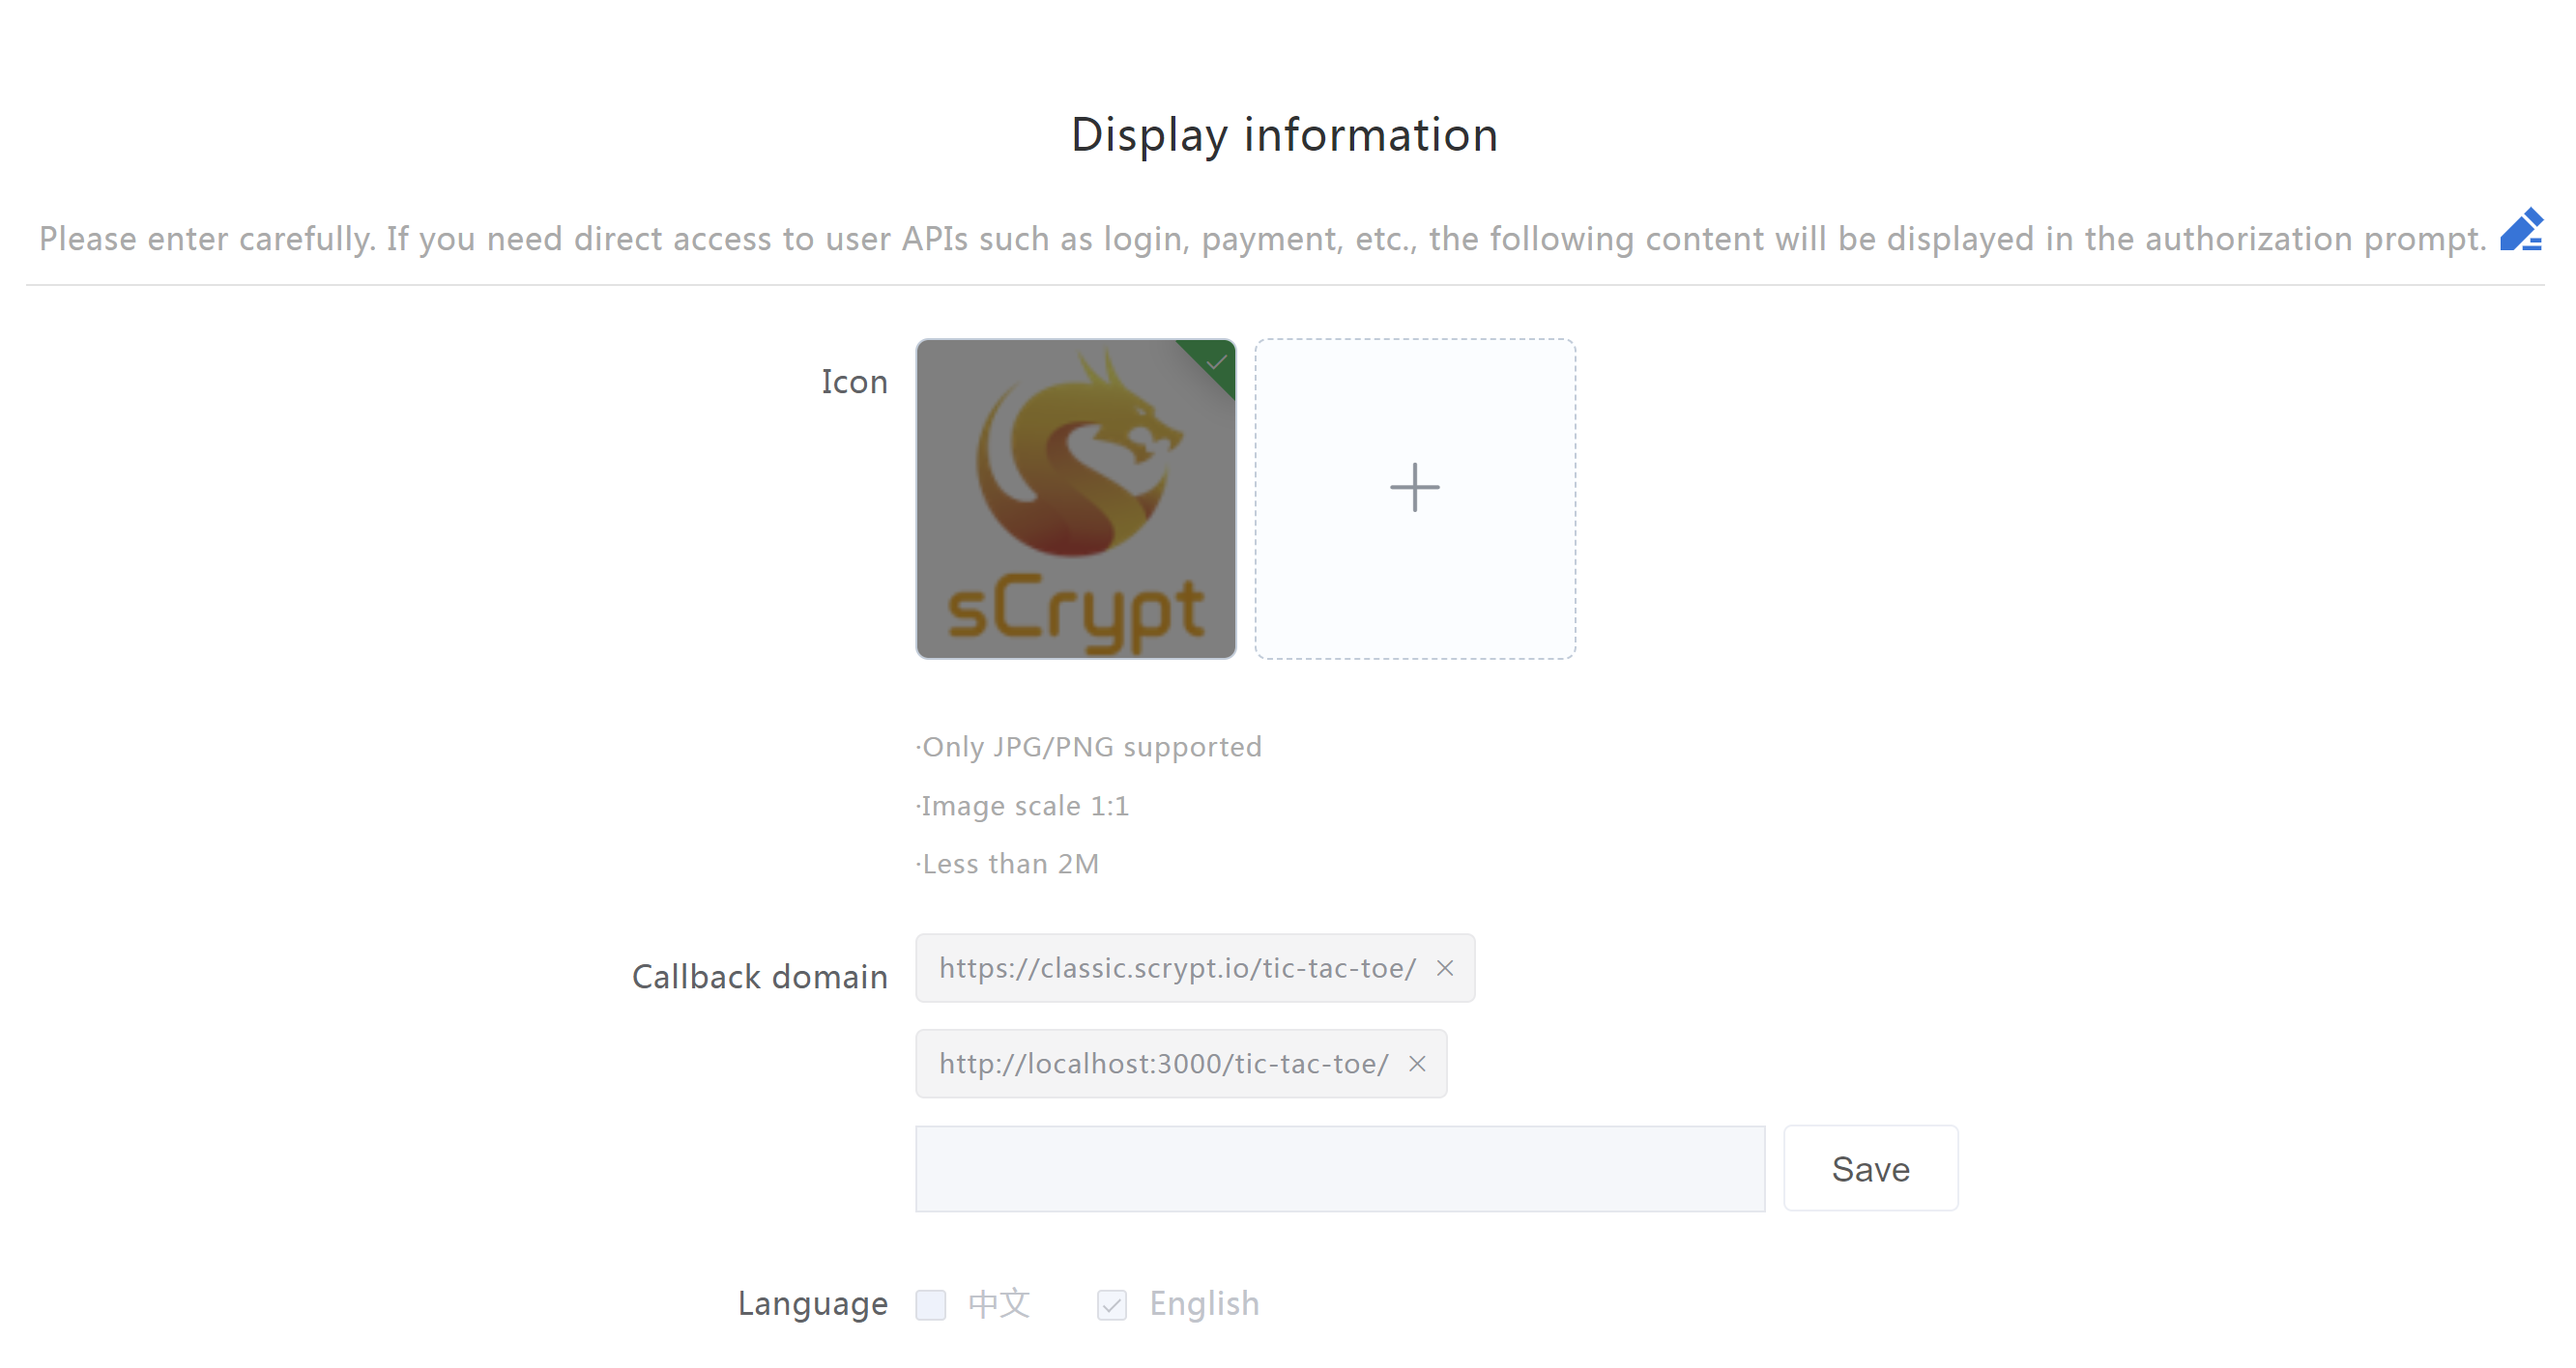
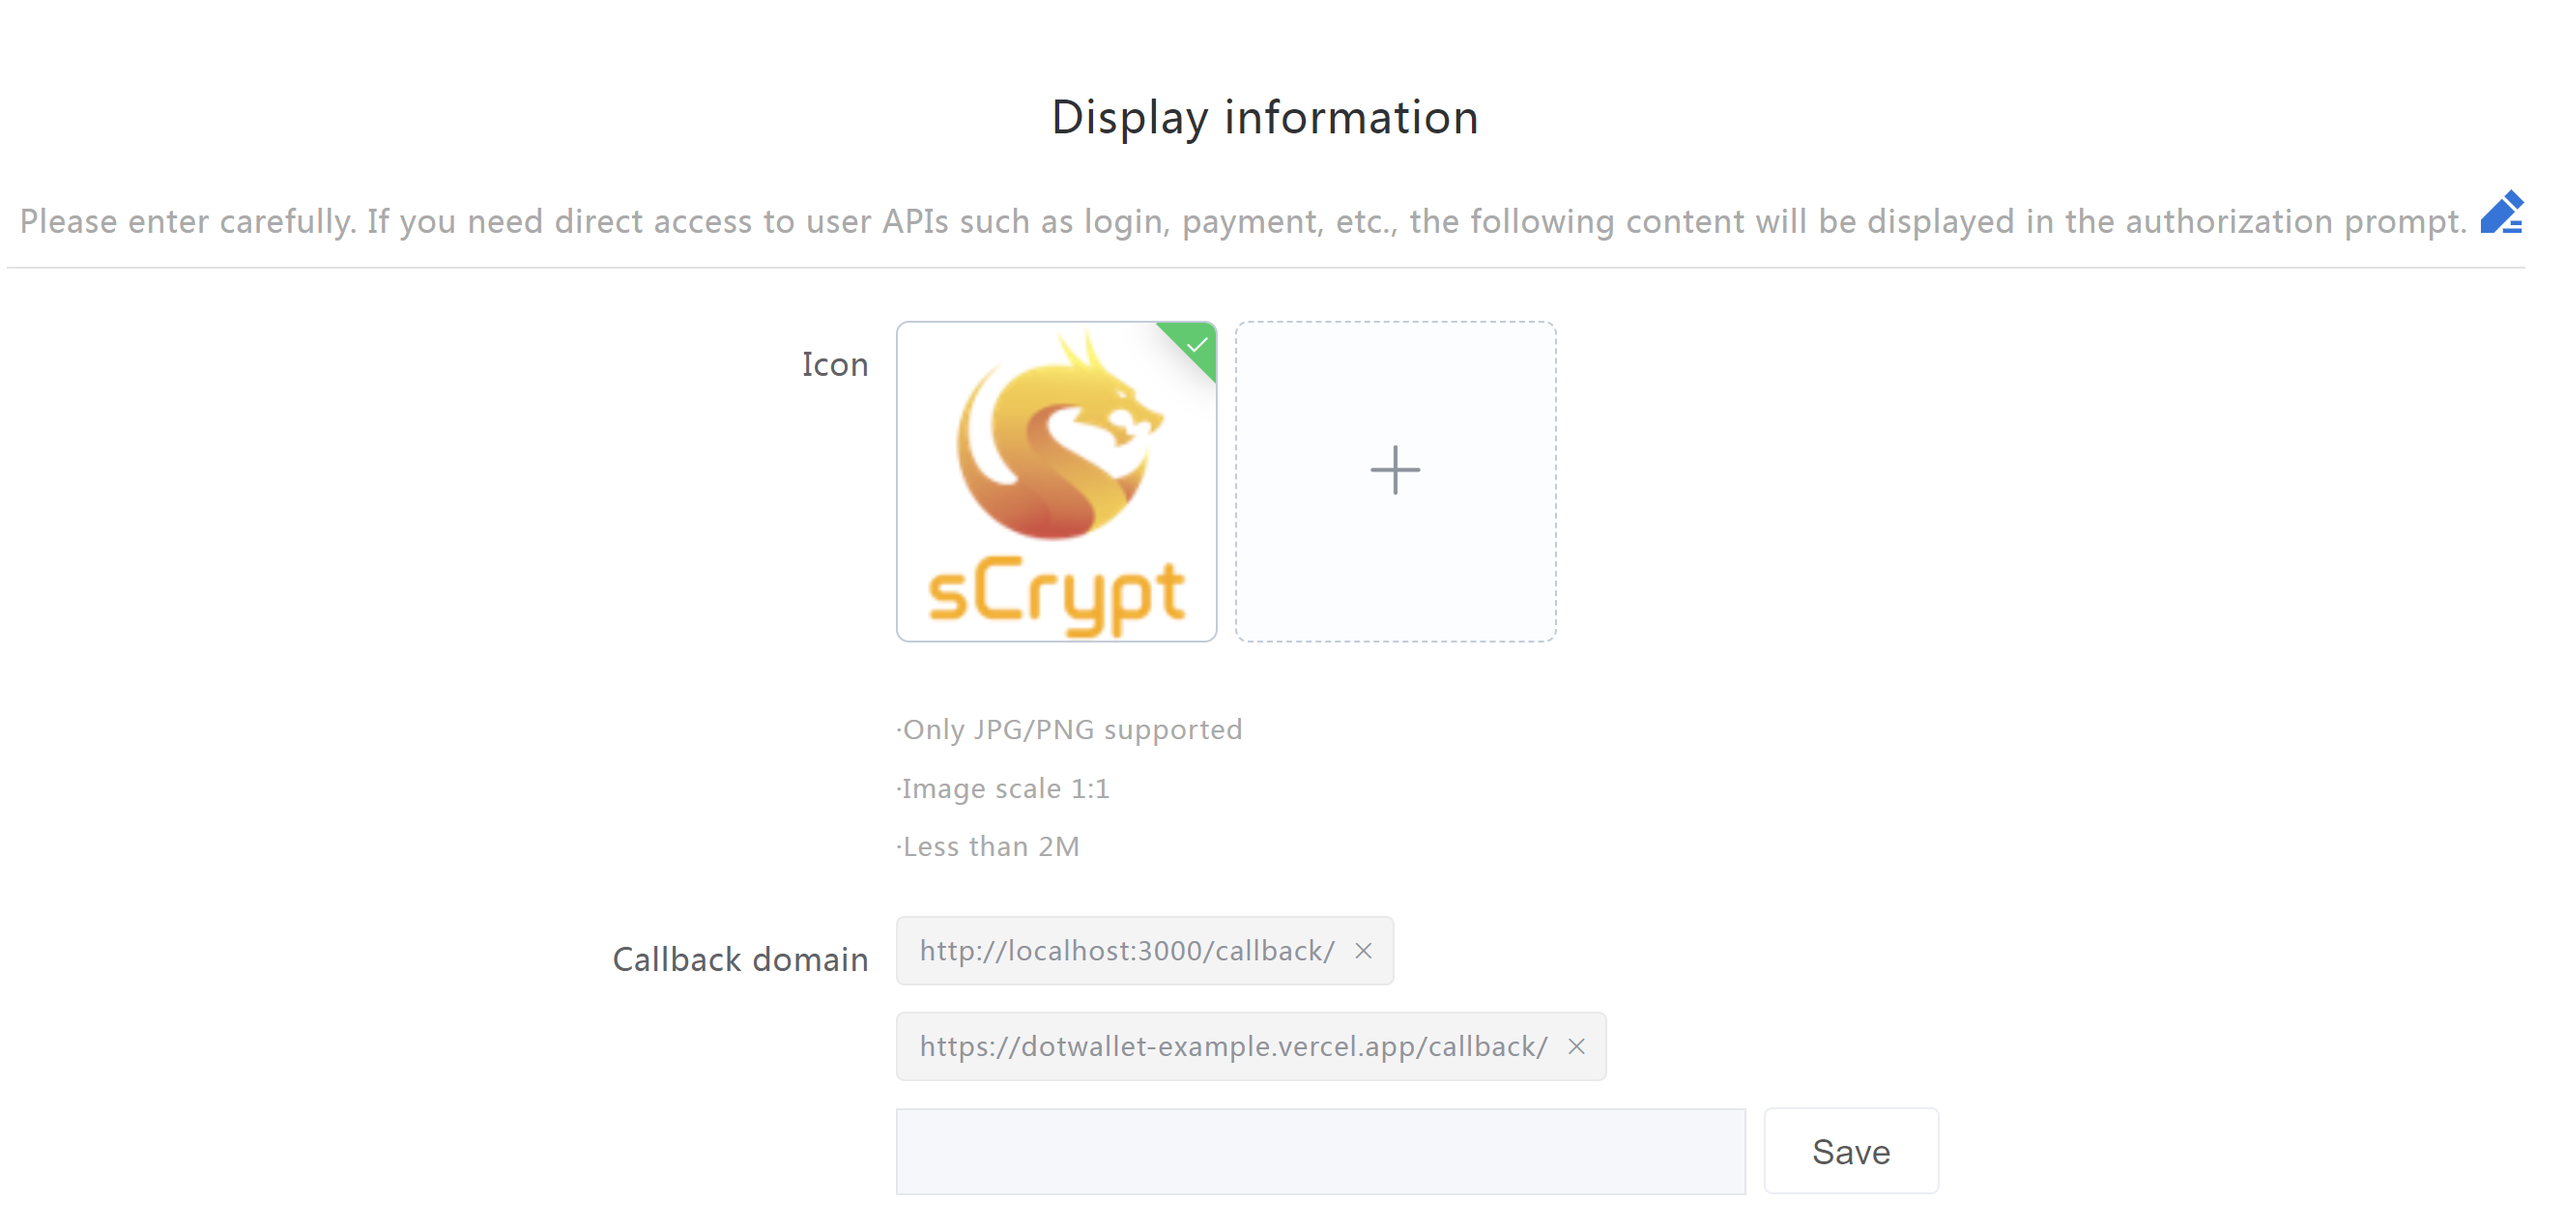
update dotwallet docs

diff --git a/docs/how-to-integrate-a-frontend/how-to-integrate-dotwallet.md b/docs/how-to-integrate-a-frontend/how-to-integrate-dotwallet.md
@@ -10,33 +10,9 @@
 DotWallet user authorization follows the standard authorization code flow of OAuth2. See [RFC6749](https://tools.ietf.org/html/rfc6749#section-4.1) for details. 
 
 
-```
-+----------+
-| Resource |
-|   Owner  |
-|          |
-+----------+
-     ^
-     |
-    (B)
-+----|-----+          Client Identifier      +---------------+
-|         -+----(A)-- & Redirection URI ---->|               |
-|  User-   |                                 | Authorization |
-|  Agent  -+----(B)-- User authenticates --->|     Server    |
-|          |                                 |               |
-|         -+----(C)-- Authorization Code ---<|               |
-+-|----|---+                                 +---------------+
-  |    |                                         ^      v
- (A)  (C)                                        |      |
-  |    |                                         |      |
-  ^    v                                         |      |
-+---------+                                      |      |
-|         |>---(D)-- Authorization Code ---------'      |
-|  Client |          & Redirection URI                  |
-|         |                                             |
-|         |<---(E)----- Access Token -------------------'
-+---------+       (w/ Optional Refresh Token)
-```
+![](../../static/img/oauth2.png)
+
+[credit to Vihanga Liyanage](https://medium.com/@vihanga_liyanage/iam-for-dummies-oauth-2-grant-types-397197a26024)
 
 User authorization is based on Oauth2's Authorization Code grant. Authorization Code grant flow:
 
@@ -65,7 +41,7 @@ User authorization is based on Oauth2's Authorization Code grant. Authorization 
 4. Exchange code for access_token. The access tokens are credentials used to access protected resources, which are issued by the authorization server.
    
 :::warning
-To avoid security issues, any request for using or obtaining `access_token` must be made from the backend server. Do not disclose your `client_id` and `client_secret` on the client side.
+To avoid security issues, any request for using or obtaining `access_token` must be made from the backend server. Do not disclose your `access_token` and `client_secret`<sup>1</sup> on the client side.
 :::
 
 
@@ -82,8 +58,8 @@ To avoid security issues, any request for using or obtaining `access_token` must
 
 3. Next, you need to set [redirection URI](https://www.oauth.com/oauth2-servers/redirect-uris). Redirect URLs are a critical part of the OAuth flow. After a user successfully authorizes an application, the authorization server will redirect the user back to the application. For example, in the figure below, we filled in two redirection URIs.
   
-- [https://classic.scrypt.io/tic-tac-toe/](https://classic.scrypt.io/tic-tac-toe) is the address used for product deployment.
-- [http:/ /localhost:3000/tic-tac-toe/](http://localhost:3000/tic-tac-toe/) is used for development and debugging.
+- [https://dotwallet-example.vercel.app/callback/](https://dotwallet-example.vercel.app/callback/) is the redirection URI used for product deployment.
+- [http://localhost:3000/callback/](http://localhost:3000/callback/) is the redirection URI used for development and debugging.
 
 ![](../../static/img/DotWallet-uris.png)
 
@@ -92,185 +68,129 @@ To avoid security issues, any request for using or obtaining `access_token` must
 *Callback domain* in the form is the redirection URIs in OAuth. 
 :::
 
-## Development Environment 
+## Implementation
 
-sCrypt SDK provides `DotWalletSigner` for quick integration with DotWallet.
 
-You can use `DotWalletDevOption` to create `DotWalletSigner`. Using `DotWalletDevOption` does not require to build a backend service. `DotWalletSigner` will automatically complete the authorization code grant flow for you on the front end.
 
-:::note
-`DotWalletDevOption` is only for development and debugging, otherwise it will leak your `client_secret` <sup>1</sup>. 
-:::
+Here is a code example to create `DotWalletSigner` in [Nextjs](https://nextjs.org/):
+
+
+1. Construct URI. 
 
 ```ts
-/**
-  * Please note that `DotWalletDevOption` is only used to create DotWalletSigner in development environment.
-  * This Option should not be used in a production environment as it will expose your client_secret.
-  */
-export interface DotWalletDevOption {
-     /** `app_id` received in the mail */
-     client_id: string;
-     /** `secret` received in the mail */
-     client_secret: string;
-     /** The url filled in the Callback domain */
-     redirect_uri: string;
-     /** A random string */
-     state: string;
+export default async function Home() {
+  const loginUrl = `https://api.ddpurse.com/authorize?client_id=${process.env.CLIENT_ID}&redirect_uri=${encodeURIComponent(
+      process.env.REDIRECT_URI || ''
+    )}&response_type=code&scope=${encodeURIComponent(
+      "user.info"
+    )}&state=${crypto.randomUUID()}`;
+  
+    return (
+      <main className="flex min-h-screen flex-col items-center justify-between p-24">
+        <div className="m-4 p-4 bg-blue-200 font-bold rounded-lg">
+          <a href={loginUrl}>DotWallet Login</a>
+        </div>
+      </main>
+    );
 }
 ```
 
-Here is a code example to create `DotWalletSigner` in `React`:
+<center>src/app/page.tsx</center>
 
 
-```ts
-const state = localStorage.getItem("state")
-    ? (localStorage.getItem("state") as string)
-    : crypto.randomUUID();
-
-localStorage.setItem("state", state);
-const options = {
-  client_id: "******",
-  client_secret: "******",
-  redirect_uri: `http://localhost:3000/tic-tac-toe/`,
-  state: state,
-};
-const provider = new DefaultProvider();
-
-const signerRef = useRef(new DotWalletSigner(options, provider));
-
-const signer = signerRef.current;
-```
-
-
-Afterwards, you can use it as a signer like any other wallet as [before](./how-to-integrate-a-frontend.md#integrate-wallet). When the user clicks the login wallet button, the `requestAuth` method is called to access the wallet, and user is redirected to DotWallet's authorization page.
-
-
-```ts
-const onAuthenticated = async () => {
-  const pubkey = await signer.getDefaultPubKey();
-
-  setAlicePubkey(toHex(pubkey));
-
-  setBobPubkey(toHex(pubkey));
-
-  const balance = await signer.getBalance();
-
-  setAliceBalance(balance.confirmed + balance.unconfirmed);
-  setBobBalance(balance.confirmed + balance.unconfirmed);
-  setConnected(true);
-};
-
-const walletLogin = async () => {
-  try {
-    const { isAuthenticated, error } = await signer.requestAuth();
-    if (!isAuthenticated) {
-      throw new Error(error);
-    }
-
-    onAuthenticated();
-  } catch (error) {
-    console.error("DotWallet login failed", error);
-  }
-};
-```
+If the user clicks the **DotWallet Login** button, the page will be redirected to the authorization server page.
 
 ![](../../static/img/DotWallet-auth.png)
 
-After the user clicks **Agree to authorize** to log in, the page will be redirected to the `redirect_uri` given by the app. In this example, `redirect_uri` is the current page <sup>2</sup>.
-We can tell whether it is a redirected page by seeing if the current query parameter has the `state` random string filled in when requesting to log in to the wallet. If yes, it will automatically call `getAccesstoken()` to get `accessToken`. After successful authentication, `DotwalletSigner` will automatically save the obtained `accessToken` in `localStorage`. 
+
+2. After the user clicks **Agree to authorize** to log in, the authorization server redirect the user to the redirection URI. The following code receives the `code` through the callback uri. Then exchange the `code` for `access_token` and save it.
+
+```ts
+import { redirect, notFound } from 'next/navigation';
+
+import token from "../token"
+
+export async function GET(request: Request) {
+  const { searchParams } = new URL(request.url);
+  const code = searchParams.get('code');
+
+  if (code) {
+    // exchange the code for access_token
+    const res = await fetch(`https://api.ddpurse.com/v1/oauth2/get_access_token`, {
+      body: JSON.stringify({
+        code,
+        redirect_uri: process.env.REDIRECT_URI,
+        grant_type: "authorization_code",
+        client_secret: process.env.CLIENT_SECRET,
+        client_id: process.env.CLIENT_ID,
+      }),
+      headers: {
+        'Content-Type': 'application/json',
+      },
+      method: 'POST'
+    });
+    const { code: apiCode, data, msg } = await res.json();
+
+    if (apiCode === 0) {
+      const { access_token } = data;
+      // save access_token
+      token.access_token = access_token;
+      // redirect to home page.
+      redirect('/');
+    }
+
+  }
+
+  notFound();
+}
+```
+
+<center>src/app/callback/route.ts</center>
+
+
+### `DotWalletSigner`
+
+sCrypt SDK provides `DotWalletSigner` for quick integration with DotWallet.
+
+After redirect to the `/balance` page, we can create a `DotWalletSigner` with the OAuth access token. 
+
 
 
 ```ts
-useEffect(() => {
-  if (signer.getStateFromUrl() === localStorage.getItem("state")) {
-    signer.getAccesstoken();
-  } else {
-    signer.isAuthenticated().then((isAuthenticated) => {
-      if (isAuthenticated) {
-        onAuthenticated();
-      }
-    });
-  }
-}, []);
+import { DotwalletSigner, DefaultProvider } from "scrypt-ts";
+import token from "../token";
+
+async function getData() {
+  const provider = new DefaultProvider();
+  const signer = new DotwalletSigner(token.access_token, provider);
+
+  const balance = await signer.getBalance();
+
+  return { balance: balance.confirmed + balance.unconfirmed };
+}
+
+export default async function Balance() {
+  const data = await getData();
+
+  return (
+    <main className="flex min-h-screen flex-col items-center justify-between p-24">
+      <div className="m-4 p-4 bg-blue-200 font-bold rounded-lg">
+        <label>balance</label> {data.balance}
+      </div>
+    </main>
+  );
+}
+
 ```
+
+<center>src/app/balance/page.tsx</center>
 
 After creating `DotWalletSigner` with `accessToken`, you can call all interfaces of `DotWalletSigner` as in other signers.
 
-
-
-## Production Environment 
-
-Since the app secret and the obtained access_token have a very high security level, they must only be stored on the server and not allowed to be passed to the user agent.
-
-The following code demonstrates how to get access token in [Express](https://expressjs.com/) web framework.
-
-
-```js
-// handle redirect_uri here.
-app.use('/tic-tac-toe', async function(req, res, next) {
-
-  const { query } = req;
-
-  const {code, state } = query;
-
-  if(code) {
-    console.log('code', code)
-    const superResponse = await superagent.post(`https://api.ddpurse.com/v1/oauth2/get_access_token`)
-    .send({
-        code,
-        redirect_uri: 'http://localhost:3000/tic-tac-toe/',
-        grant_type: "authorization_code",
-        client_secret: "********",
-        client_id: "********",
-    });
-  
-    if(superResponse.ok) {
-      const body = superResponse.body ? superResponse.body : JSON.parse(superResponse.text);
-      const { code, data, msg } = body;
-      if (code === 0) {
-          const { access_token } = data;
-          // save access_token
-          res.redirect(`/tic-tac-toe?accessToken=${access_token}`);
-      } else {
-        res.send(`get accessToken failed: ${msg}`);
-      }
-    }
-  } else {
-    res.render(`index.html`);
-  }
-});
-```
-
-
-Get access token in frontend and use `DotWalletProdOption` to create a `DotWalletSigner`.
-
-
-```ts
-/**
- * This option can be used in both development environment and production environment.
- * See [access-token]{@link https://oauth.net/2/access-tokens} and [DotWallet APIs for authorization]{@link https://developers.DotWallet.com/documents/en/#authorization} to known how to get a access token.
- */
-export interface DotWalletProdOption {
-    accessToken: string;
-}
-
-const urlParams = new URLSearchParams(window.location.search);
-const accessToken = urlParams.get("accessToken");
-
-const provider = new DefaultProvider();
-
-const signerRef = useRef(new DotWalletSigner({
-  accessToken
-}, provider));
-```
-
-Now you can access APIs of DotWalletSigner.
-
 Congrats! You have completed the integration of DotWallet.
+
+Full code is [here](https://github.com/zhfnjust/dotwallet-example).
 
 ------
 
-[1] `client_secret` is usually stored in the backend service. Use the request `accessToken`.
-
-[2] `redirect_uri` only uses the current page in development environment. It usually uses a backend service as `redirect_uri` and serves the request with `accessToken` at the backend in production.
-
+[1] `client_secret` is usually stored in the backend service. It's used to exchange code for access token.
